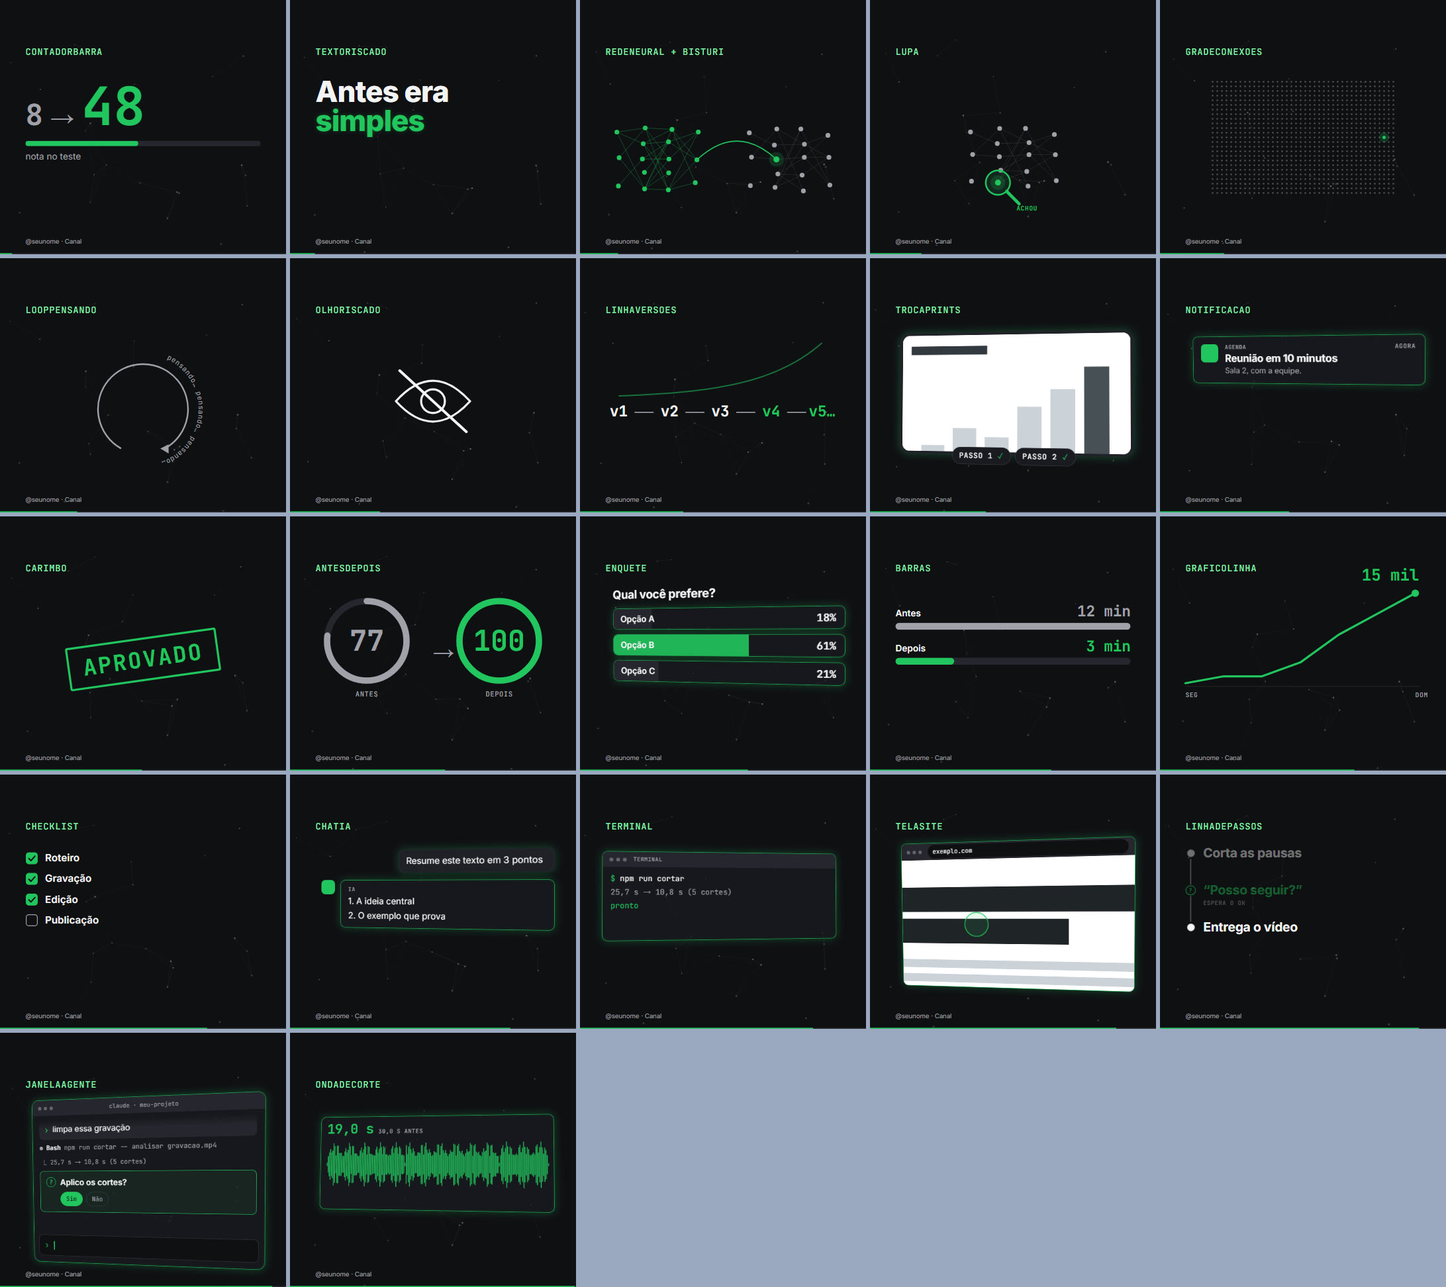
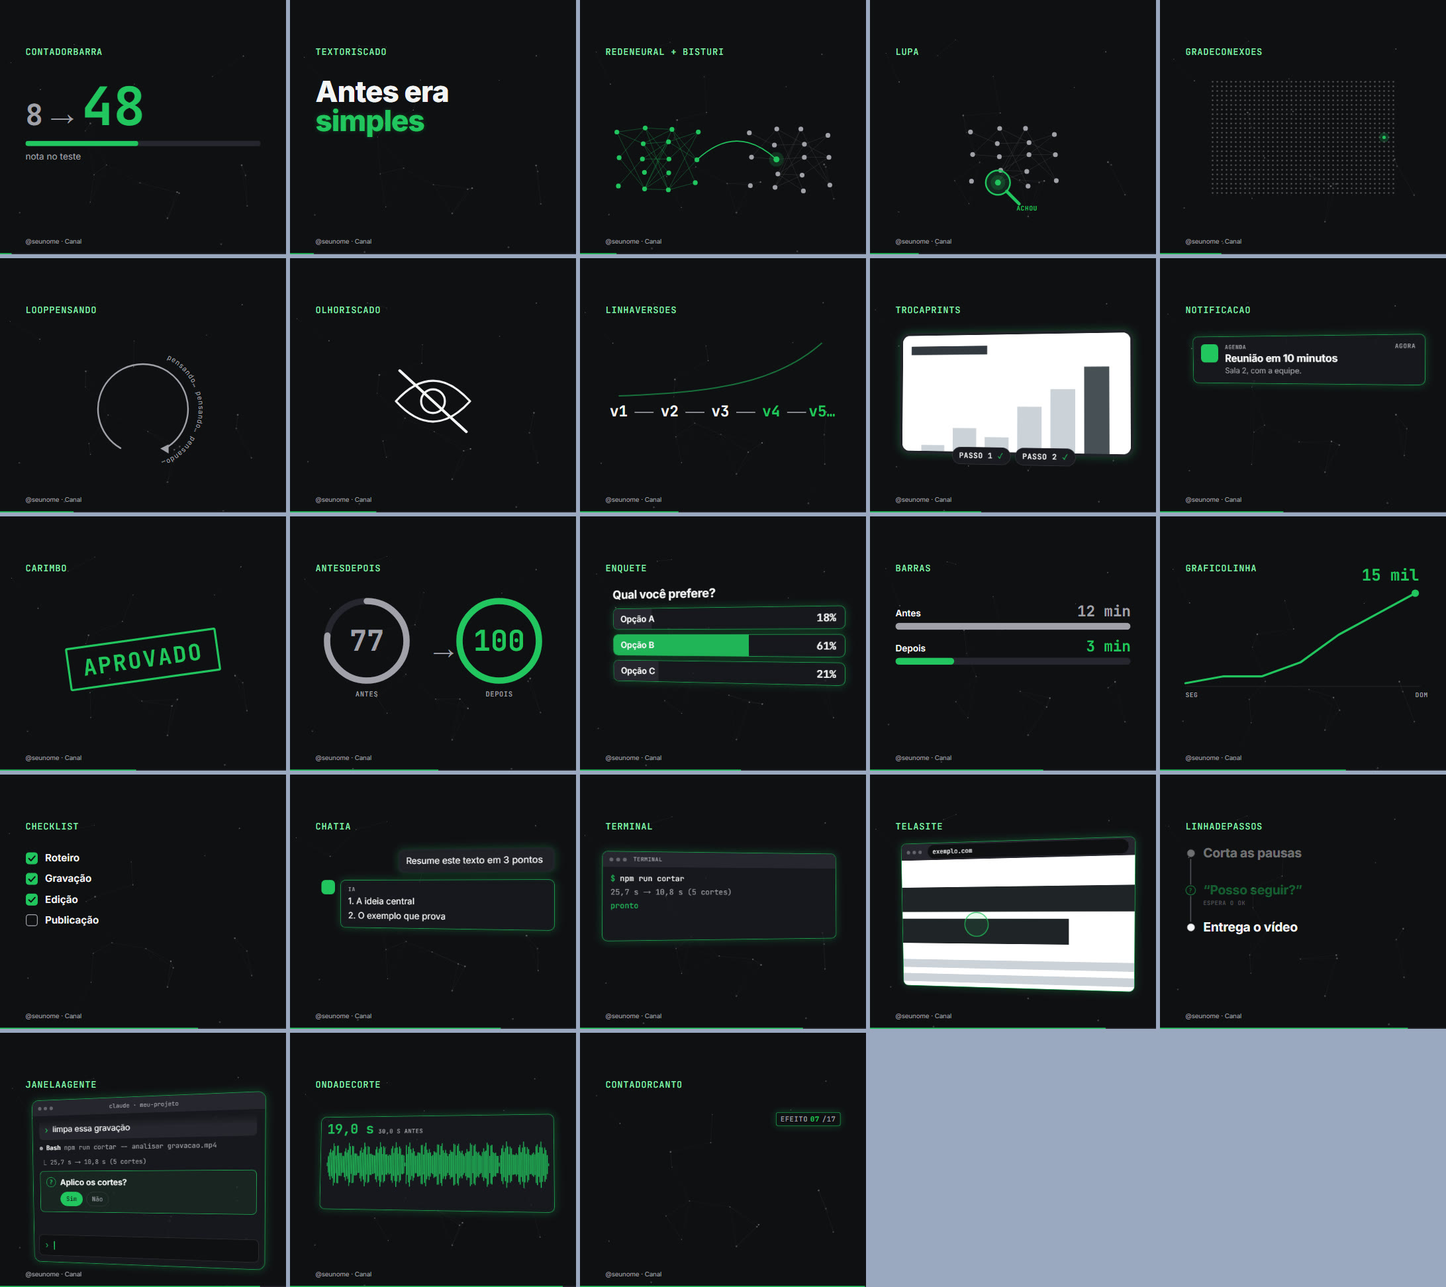
Legenda fluida, contador de canto e órbita que não cruza o rosto
- LegendaFluida: legenda de 1 a 3 palavras por vez, cada uma no instante
  em que é falada, sem tarja, palavra-chave na cor do tema e véu escuro
  atrás. VideoLegendado ganha modelo "fluida" e centroLegenda; paginar
  ganha o modo "fluida". Guia na skill de legendas.
- ContadorCanto: contador "07/17" no canto de cima, para sequências.
- OrbitaDeCartoes: regra para não cruzar o rosto (frente abaixo da boca,
  fundo atrás da cabeça), no catálogo, na skill rápida e no mostruário.
- RecortePapel: letrasEm e letrasPasso opcionais.
- Imagens do docs/ refeitas com a marca neutra.

Changed region(s): [[0.3736, 0.8025, 0.6227, 1.0]]

diff --git a/src/pecas/LegendaFluida.tsx b/src/pecas/LegendaFluida.tsx
@@ -1,0 +1,88 @@
+import { interpolate, useCurrentFrame, useVideoConfig } from "remotion";
+import { z } from "zod";
+import { comAlfa, destaqueEstilo } from "../animacoes/estilo";
+import { ds, fonteDisplay, zonasReels } from "../animacoes/tema";
+import { ease } from "./util";
+import type { PosicaoLegenda } from "./LegendaQueimada";
+
+// Legenda FLUIDA: de 1 a 3 palavras por vez, em letra de título grande, sem tarja. Cada palavra entra no instante
+// em que é falada (sobe um pouco e aparece), e o bloco troca quando começa o próximo. A *palavra* entre asteriscos
+// sai na cor do tema (no estilo palco, também em itálico). É a alternativa à LegendaQueimada (frases inteiras).
+// Os blocos vêm de `npm run paginar -- legendas\<nome>.json "<vídeo>" fluida` (tempos em segundos).
+export const blocoFluidoSchema = z.object({
+  de: z.number(),
+  ate: z.number(),
+  palavras: z.array(z.object({ texto: z.string(), de: z.number() })),
+});
+export type BlocoFluido = z.infer<typeof blocoFluidoSchema>;
+
+const ALTURA = zonasReels.legenda.y1 - zonasReels.legenda.y0;
+const caixas: Record<PosicaoLegenda, { left: number; width: number; top: number }> = {
+  faixa: { left: zonasReels.lateral, width: 1080 - 2 * zonasReels.lateral, top: zonasReels.legenda.y0 },
+  "terco-superior": { left: zonasReels.lateral, width: 1080 - 2 * zonasReels.lateral, top: 260 },
+  base: { left: zonasReels.lateral, width: zonasReels.botoes.x - zonasReels.lateral, top: 1920 - zonasReels.base - 40 - ALTURA },
+};
+
+export const LegendaFluida: React.FC<{
+  blocos: BlocoFluido[];
+  acento: string;
+  posicao?: PosicaoLegenda;
+  tamanho?: number;
+  veu?: boolean; // um véu escuro e difuso atrás das palavras, para ler sobre fundo claro (não é sombra no texto)
+  centroY?: number; // y do meio da legenda, se não for a `posicao` (rosto em tela cheia: logo abaixo do queixo)
+}> = ({ blocos, acento, posicao = "faixa", tamanho = 70, veu = true, centroY }) => {
+  const frame = useCurrentFrame();
+  const { fps } = useVideoConfig();
+  const t = frame / fps;
+  const bloco = blocos.find((b) => t >= b.de && t < b.ate);
+  if (!bloco) return null;
+  const caixa = centroY ? { ...caixas.faixa, top: centroY - ALTURA / 2 } : caixas[posicao];
+  return (
+    <div style={{ position: "absolute", ...caixa, height: ALTURA, display: "flex", alignItems: "center", justifyContent: "center" }}>
+      {veu ? (
+        <div
+          style={{
+            position: "absolute",
+            left: "50%",
+            top: "50%",
+            width: Math.min(caixa.width, 260 + bloco.palavras.reduce((n, p) => n + p.texto.length, 0) * tamanho * 0.36),
+            height: tamanho * 1.9,
+            translate: "-50% -50%",
+            borderRadius: 999,
+            backgroundColor: comAlfa(ds.bg000, 0.42),
+            filter: "blur(38px)",
+          }}
+        />
+      ) : null}
+      <div style={{ position: "relative", display: "flex", flexWrap: "wrap", justifyContent: "center", columnGap: tamanho * 0.28, maxWidth: "100%" }}>
+        {bloco.palavras.map((p, i) => {
+          const desde = (t - p.de) * fps; // quadros desde que a palavra foi falada
+          if (desde < 0) return null;
+          const v = interpolate(desde, [0, 5], [0, 1], ease);
+          const destaque = p.texto.startsWith("*") && p.texto.endsWith("*") && p.texto.length > 2;
+          const texto = destaque ? p.texto.slice(1, -1) : p.texto;
+          return (
+            <span
+              key={i}
+              style={{
+                display: "inline-block",
+                fontFamily: fonteDisplay,
+                fontWeight: 800,
+                fontSize: tamanho,
+                lineHeight: 1.05,
+                letterSpacing: "-0.01em",
+                color: ds.ink,
+                opacity: v,
+                translate: `0px ${interpolate(v, [0, 1], [tamanho * 0.22, 0]).toFixed(2)}px`,
+                scale: interpolate(v, [0, 1], [0.92, 1]),
+                ...(destaque ? destaqueEstilo(acento) : {}),
+              }}
+            >
+              {texto}
+            </span>
+          );
+        })}
+      </div>
+    </div>
+  );
+};

diff --git a/src/videos/VideoLegendado.tsx b/src/videos/VideoLegendado.tsx
@@ -3,6 +3,7 @@ import { AbsoluteFill, Sequence, staticFile } from "remotion";
 import { z } from "zod";
 import { GuiaZonaSegura } from "../animacoes/Base";
 import { ds, PILAR_PADRAO, pilares, pilarSchema, tipo } from "../animacoes/tema";
+import { blocoFluidoSchema, LegendaFluida } from "../pecas/LegendaFluida";
 import { LegendaQueimada, paginaLegendaSchema, posicaoLegendaSchema } from "../pecas/LegendaQueimada";
 
 /*
@@ -19,11 +20,16 @@ export const videoLegendadoSchema = z.object({
   enquadramento: z.string(), // posição do vídeo no quadro (CSS object-position), ex.: "50% 50%"
   posicao: posicaoLegendaSchema,
   mostrarGuia: z.boolean(),
+  // "frases": frases inteiras numa tarja (LegendaQueimada, o padrão); "fluida": 1 a 3 palavras por vez, cada uma no seu tempo (LegendaFluida)
+  modelo: z.enum(["frases", "fluida"]),
+  // só na fluida: y do meio da legenda (0 = segue a `posicao`). Rosto em tela cheia: logo abaixo do queixo.
+  centroLegenda: z.number(),
   paginas: z.array(paginaLegendaSchema),
+  blocos: z.array(blocoFluidoSchema),
 });
 type Props = z.infer<typeof videoLegendadoSchema>;
 
-export const VideoLegendado: React.FC<Props> = ({ pilar, video, enquadramento, posicao, mostrarGuia, paginas }) => {
+export const VideoLegendado: React.FC<Props> = ({ pilar, video, enquadramento, posicao, mostrarGuia, modelo, centroLegenda, paginas, blocos }) => {
   const { acento } = pilares[pilar];
   return (
     <AbsoluteFill style={{ backgroundColor: ds.bg000 }}>
@@ -35,7 +41,11 @@ export const VideoLegendado: React.FC<Props> = ({ pilar, video, enquadramento, p
             vídeo: rosto, tela cheia
           </AbsoluteFill>
         )}
-        <LegendaQueimada paginas={paginas} acento={acento} posicao={posicao} />
+        {modelo === "fluida" ? (
+          <LegendaFluida blocos={blocos} acento={acento} posicao={posicao} centroY={centroLegenda || undefined} />
+        ) : (
+          <LegendaQueimada paginas={paginas} acento={acento} posicao={posicao} />
+        )}
       </Sequence>
       {mostrarGuia ? <GuiaZonaSegura /> : null}
     </AbsoluteFill>
@@ -49,10 +59,13 @@ export const videoLegendadoPadrao: Props = {
   enquadramento: "50% 50%",
   posicao: "terco-superior",
   mostrarGuia: false,
+  modelo: "frases",
+  centroLegenda: 0,
   paginas: [
     { de: 0.2, ate: 2.6, texto: "Esta é a *legenda* queimada no vídeo" },
     { de: 2.6, ate: 5.6, texto: "Frase inteira, com uma *palavra-chave* em destaque na cor do tema" },
   ],
+  blocos: [],
 };
 
 export const duracaoVideoLegendado = (p: Props, fps: number) => Math.max(1, Math.round(p.duracaoSeg * fps));

diff --git a/src/pecas/ContadorCanto.tsx b/src/pecas/ContadorCanto.tsx
@@ -1,0 +1,47 @@
+import { interpolate, useCurrentFrame } from "remotion";
+import { cartao, comAlfa } from "../animacoes/estilo";
+import { ds, tipo } from "../animacoes/tema";
+import { ease } from "./util";
+
+// Contador no canto de cima à direita ("07/17"): marca em que item de uma sequência o vídeo está.
+// Bom para mostruário, "N dicas", "N passos". Vai dentro da cena do item e entra com ela.
+//   atual, total: os números (o atual ganha zero à esquerda, no tamanho do total);  rotulo: palavra opcional antes
+export const ContadorCanto: React.FC<{ atual: number; total: number; acento: string; rotulo?: string; top?: number; inicio?: number }> = ({
+  atual,
+  total,
+  acento,
+  rotulo,
+  top = 176,
+  inicio = 0,
+}) => {
+  const frame = useCurrentFrame();
+  const v = interpolate(frame, [inicio, inicio + 8], [0, 1], ease);
+  const casas = String(total).length;
+  return (
+    <div
+      style={{
+        position: "absolute",
+        right: ds.space[4],
+        top,
+        display: "flex",
+        alignItems: "baseline",
+        gap: 10,
+        padding: "8px 16px",
+        borderRadius: ds.radius.sm,
+        backgroundColor: comAlfa(ds.bg000, 0.72),
+        border: `2px solid ${ds.line}`,
+        ...tipo.chapter,
+        fontSize: 26,
+        color: ds.inkMuted,
+        fontVariantNumeric: "tabular-nums",
+        opacity: v,
+        translate: `0px ${interpolate(v, [0, 1], [-8, 0])}px`,
+        ...cartao(acento, ds.bg000),
+      }}
+    >
+      {rotulo ? <span>{rotulo}</span> : null}
+      <span style={{ color: acento, fontWeight: 700 }}>{String(atual).padStart(casas, "0")}</span>
+      <span>/{total}</span>
+    </div>
+  );
+};

diff --git a/src/efeitos/RecortePapel.tsx b/src/efeitos/RecortePapel.tsx
@@ -7,6 +7,8 @@ import { ease } from "../pecas/util";
 // com uma palavra em letras recortadas embaixo. Anda "aos trancos" (2 quadros por passo), como stop-motion.
 // PRECISA DO RECORTE: `pessoa` = <PessoaRecortada>.
 //   em: quadro em que o papel rasga e a pessoa cola;  letras: a palavra das letras recortadas (curta)
+//   letrasEm, letrasPasso: quadros depois de `em` em que a primeira letra chega e entre uma letra e outra
+//   (cena curta: 4 e 2, para a palavra inteira chegar a tempo)
 export const RecortePapel: React.FC<{
   pessoa: React.ReactNode;
   acento: string;
@@ -14,7 +16,9 @@ export const RecortePapel: React.FC<{
   letras?: string;
   giro?: number;
   letrasTop?: number;
-}> = ({ pessoa, acento, em, letras, giro = -2, letrasTop = 1190 }) => {
+  letrasEm?: number;
+  letrasPasso?: number;
+}> = ({ pessoa, acento, em, letras, giro = -2, letrasTop = 1190, letrasEm = 14, letrasPasso = 4 }) => {
   const frameReal = useCurrentFrame();
   const frame = em + Math.floor((frameReal - em) / 2) * 2; // stop-motion
   const rasga = interpolate(frame, [em, em + 10], [0, 1], ease);
@@ -52,7 +56,7 @@ export const RecortePapel: React.FC<{
       {letras ? (
         <div style={{ position: "absolute", left: 0, right: 0, top: letrasTop, display: "flex", justifyContent: "center", gap: 10 }}>
           {letras.split("").map((l, i) => {
-            const chega = interpolate(frame, [em + 14 + i * 4, em + 20 + i * 4], [0, 1], ease);
+            const chega = interpolate(frame, [em + letrasEm + i * letrasPasso, em + letrasEm + 6 + i * letrasPasso], [0, 1], ease);
             const tipoDaCaixa = i % 3;
             return (
               <div

diff --git a/src/MostruarioEfeitos.tsx b/src/MostruarioEfeitos.tsx
@@ -84,7 +84,8 @@ const exemplos: Record<string, (c: Cena) => React.ReactNode> = {
     </>
   ),
   OrbitaDeCartoes: ({ acento, g, p }) => {
-    const orbita = { acento, cartoes: [{ texto: "corte" }, { imagem: "exemplo/grafico.png" }, { texto: "legenda" }, { texto: "zoom" }, { imagem: "exemplo/pagina.png" }, { texto: "capa" }], cy: 740, ry: 170, largura: 160, periodo: 6 };
+    const orbita = { acento, cartoes: [{ texto: "corte" }, { imagem: "exemplo/grafico.png" }, { texto: "legenda" }, { texto: "zoom" }, { imagem: "exemplo/pagina.png" }, { texto: "capa" }], cy: 860, ry: 220, largura: 220, proporcao: 0.42, tamanhoTexto: 40, periodo: 6 };
+    // inclinada: na frente passa abaixo da boca, atrás passa atrás do alto da cabeça (nada cruza o rosto)
     // com a pessoa recortada, os cartões de trás passam ATRÁS da cabeça; sem ela, ficam apagados por cima
     return p ? (
       <>

diff --git a/src/Mostruario.tsx b/src/Mostruario.tsx
@@ -7,6 +7,7 @@ import { Carimbo } from "./pecas/Carimbo";
 import { ChatIA } from "./pecas/ChatIA";
 import { Checklist } from "./pecas/Checklist";
 import { ContadorBarra } from "./pecas/ContadorBarra";
+import { ContadorCanto } from "./pecas/ContadorCanto";
 import { Enquete } from "./pecas/Enquete";
 import { GradeConexoes } from "./pecas/GradeConexoes";
 import { GraficoLinha } from "./pecas/GraficoLinha";
@@ -132,6 +133,7 @@ const exemplos: Record<string, (acento: string) => React.ReactNode> = {
       inicio={2}
     />
   ),
+  ContadorCanto: (acento) => <ContadorCanto atual={7} total={17} rotulo="efeito" acento={acento} top={300} inicio={4} />,
 };
 
 // onda de exemplo (ilustração, não é gravação de ninguém): fala com pausas

diff --git a/.claude/skills/fabrica-videos-legendas/SKILL.md b/.claude/skills/fabrica-videos-legendas/SKILL.md
@@ -5,7 +5,7 @@ description: Legenda queimada no vídeo no padrão da marca, em frases inteiras 
 
 # /fabrica-videos-legendas — legenda queimada com palavra em destaque
 
-Skill da **Fábrica de Vídeos Agêntica**. Queima a legenda no vídeo, no padrão da marca: frases inteiras, no máximo 2 linhas, na fonte de texto da marca, sobre tarja escura, **uma palavra-chave por frase na cor do pilar**. Sem animação palavra a palavra.
+Skill da **Fábrica de Vídeos Agêntica**. Queima a legenda no vídeo, no padrão da marca: frases inteiras, no máximo 2 linhas, na fonte de texto da marca, sobre tarja escura, **uma palavra-chave por frase na cor do pilar**. Sem animação palavra a palavra. Se a pessoa pedir legenda que flui palavra por palavra, use o **modelo fluido** (seção abaixo).
 
 Você é o **editor de vídeo**. Comandos no terminal, na raiz do projeto. `TRABALHO` = a pasta `trabalho`.
 
@@ -33,6 +33,27 @@ Não precisa de código por vídeo.
 
 `npm run paginar` não sobrescreve um arquivo que já existe (você pode ter marcado as palavras-chave). Para gerar de novo, acrescente `refazer` no fim do comando.
 
+Outro jeito de legendar, a escolher quando ele pedir "legenda fluida" ou "palavra por palavra":
+- **Como fica:** de 1 a 3 palavras por vez, em letra de título grande (70 px), sem tarja. Cada palavra entra no instante em que é falada e o bloco troca no seguinte. As palavras-chave saem na cor do tema (no estilo palco, também em itálico).
+- **Fundo:** um véu escuro e difuso atrás das palavras ajuda a ler sobre fundo claro. Não é sombra no texto.
+- **Peça:** `LegendaFluida`. Composição: a mesma `VideoLegendado`, com `modelo: "fluida"`.
+
+Passos: os mesmos do caso 1, com estas diferenças.
+1. **Paginar:** `npm run paginar -- legendas\<nome>.json "<vídeo>" <pilar> fluida` gera `legendas\<nome>.fluida.json`.
+   - Blocos de até 3 palavras e 20 letras, quebrando em pausa de 0,35 s e em pontuação.
+   - Sem pontuação na tela.
+   - A palavra que abre frase sai em minúscula.
+   - Palavra pendurada ("de", "o", "no") vai para o bloco seguinte.
+2. **Revisar:**
+   - nomes que o Whisper errou; a primeira palavra de frase que é nome próprio volta a ter maiúscula;
+   - "chat de apt" vira um bloco só, "ChatGPT", com o tempo da primeira palavra;
+3. **Posição:**
+   - tela dividida: `posicao: "faixa"` e `centroLegenda: 0`.
+4. **Conferir:** quadros com as zonas: `npm run quadros -- VideoLegendado 2s,10s,20s 0.3 legendas\<nome>.fluida.json guia`.
+5. **Renderizar:** `npx remotion render VideoLegendado "<saída>.mp4" --props=legendas\<nome>.fluida.json`.
+
+Num reel com animações, use a peça direto, fora do `<TelaDividida>`: `<LegendaFluida blocos={fluida.blocos} acento={acento} posicao="faixa" />`.
+
 ## Caso 2: reel com animações (tela dividida)
 A peça é a mesma, dentro da composição do vídeo:
 ```tsx
@@ -48,8 +69,9 @@ Gere o `.legenda.json` pelos passos 2 a 4 acima. A peça vai **fora** do `<TelaD
 - Uma palavra-chave por frase, na cor do pilar. Nunca duas cores.
 - Tarja na cor de fundo da marca com cantos de 8 px. Nada de contorno, sombra ou palavra pulando.
 - O vídeo precisa se entender sem som: a legenda carrega a mensagem inteira.
+- **Exceção:** o modelo fluido (acima) mostra palavra por palavra, sem tarja. Ele só entra quando a pessoa pede. A entrada de cada palavra é curta (5 quadros, subida pequena) e nunca pula.
 
 ## Onde está o código
-- Peça: `src\pecas\LegendaQueimada.tsx`.
+- Peça: `src\pecas\LegendaQueimada.tsx` (frases) e `src\pecas\LegendaFluida.tsx` (fluida).
 - Composição pronta: `src\videos\VideoLegendado.tsx` (Id `VideoLegendado`).
 - Paginador: `scripts\paginar.mjs`.

diff --git a/.claude/skills/fabrica-videos-peca/pecas.md b/.claude/skills/fabrica-videos-peca/pecas.md
@@ -21,6 +21,7 @@ Para ver em movimento: composição `Mostruario` no Studio (3 s por peça). Para
 | "pedi para a IA", "colei o prompt" | `ChatIA` | Pedido sendo digitado e a resposta em linhas |
 | "rodei o comando", "o script fez" | `Terminal` | Janela de terminal com linhas digitadas |
 | "pedi para a IA e ela fez", "a IA rodou e perguntou" (uma sessão inteira) | `JanelaAgente` | Sessão com o agente: pedido digitado, ferramentas rodando, saídas, pergunta com botões, menu do "/"; rola sozinha. Só com texto real |
+| uma sequência numerada ("17 efeitos", "5 dicas") | `ContadorCanto` | Contador discreto no canto de cima à direita, `07/17`, que muda a cada item; serve também em tela cheia, sobre a gravação |
 | "cortou as pausas", "de 2 minutos para 30 segundos" | `OndaDeCorte` | Forma de onda real da gravação: os cortes apagam e somem, o que fica se junta e a duração conta |
 | o nome de um site, app ou produto | `TelaSite` | Print numa moldura de navegador, com rolagem, zoom e clique |
 | vários prints em sequência | `TrocaPrints` | Prints trocando em corte seco, com chips por cima |
@@ -31,6 +32,7 @@ Para ver em movimento: composição `Mostruario` no Studio (3 s por peça). Para
 | "cada versão melhora a próxima" | `LinhaVersoes` | v1 → v2 → v3 acelerando, com curva |
 | o título de uma cena | `TituloCena` (em `util.tsx`) | Título com a palavra-chave na cor do pilar |
 | legenda queimada | `LegendaQueimada` | Ver a skill `fabrica-videos-legendas` |
+| legenda fluida, palavra por palavra | `LegendaFluida` | 1 a 3 palavras por vez, sem tarja, cada uma no seu tempo; ver a skill `fabrica-videos-legendas`, "Modelo fluido" |
 
 ## Props em comum
 - `acento`: a cor do pilar (`pilares[pilar].acento`).
@@ -55,7 +57,7 @@ A base é a `<Gravacao video="..." inicio={segundo} />`. Sem `video`, ela mostra
 | "presta atenção nisso" | `ZoomCamera` | Zoom em degraus com o visor da câmera: cantos do quadro, REC e régua do zoom |
 | "pedi para a IA e ela fez" | `InterfaceEmVolta` | Painéis flutuando em volta: pedido digitado, progresso, prévia, linha do tempo |
 | "X fica entre A e B", os dois lados de uma discussão | `InterfaceEmVolta` (painéis `texto` com `rotulo`, `tamanho` e `forte`) | Cartões de nome em volta da cabeça: um em cima, um de cada lado, cada um entrando na palavra |
-| "fiz tudo isso", várias peças de uma vez | `OrbitaDeCartoes` | Cartões (palavras ou prints) girando em volta da cabeça, em 3D. Palavra comprida: `proporcao={0.5}` (etiqueta deitada) e `tamanhoTexto` |
+| "fiz tudo isso", várias peças de uma vez | `OrbitaDeCartoes` | Cartões (palavras ou prints) girando em volta da cabeça, em 3D. Palavra comprida: `proporcao={0.5}` (etiqueta deitada) e `tamanhoTexto`. **Órbita inclinada, sem cruzar o rosto:** a frente passa abaixo da boca e o fundo passa atrás do alto da cabeça (centro da frente ≈ boca + 140 px, centro de trás ≈ topo da cabeça + 40 px; `cy` é a média dos dois e `ry` a metade da distância; etiquetas deitadas, `proporcao` ~0,42) |
 | o nome de uma coisa que aparece na cena | `EtiquetaColada` | Adesivo na cor do tema grudado no objeto; segue uma `trilha` marcada à mão, se o objeto se mexer |
 | "antes era assim, agora…" (cru → tratado) | `VarreduraAntesDepois` | Um fio de luz atravessa e troca o `antes` pelo `depois`, com os rótulos |
 | "foi assim que eu fiz este vídeo" | `RecuoEditor` | A câmera recua e o vídeo vira uma janela do editor: checklist, efeitos, linha do tempo com a onda |

diff --git a/.claude/skills/fabrica-videos-rapido/SKILL.md b/.claude/skills/fabrica-videos-rapido/SKILL.md
@@ -67,6 +67,7 @@ A pessoa fica em tela cheia o tempo todo. Nos momentos-chave entra um efeito sob
   - O `CorteMergulho` recebe a mesma `<Gravacao>` em `de` e `para`, com `em` no quadro da **emenda do corte**. Para achar o segundo da emenda, some os trechos de `resultado.fica` do `.cortes.json`.
   - Texto na cor do tema some em cima de roupa clara: confira o contraste no quadro real.
   - Cartão que deve passar por trás da cabeça vai antes da `<PessoaRecortada>`; o que fica ao lado do rosto vai depois dela.
+  - Órbita: **nada cruza o rosto**. Incline a elipse para a frente passar abaixo da boca e o fundo atrás do alto da cabeça. Meça o y da boca e do topo da cabeça na gravação (ver `pecas.md` (na pasta da skill `fabrica-videos-peca`)).
   - Na troca para um fundo novo (`Vertigem`), deixe a `<Gravacao>` por baixo e faça o efeito entrar em 8 quadros: a pessoa não muda e o cenário não troca num estalo.
   - O `SaindoDoQuadro` esconde parte do cabeçalho do post atrás da cabeça. Se o nome e o botão Seguir importam (CTA), repita-os embaixo do post.
 

diff --git a/README.md b/README.md
@@ -13,7 +13,7 @@ Tudo roda no seu computador. As animações são feitas em código (Remotion) e 
 | "gravei isso, monta" | `/fabrica-videos-rapido` | Reel animado a partir da gravação, sem roteiro antes |
 | "quero um reel sobre X" | `/fabrica-videos-reels` | Reel com roteiro e storyboard aprovados antes de gravar |
 | "limpa essa gravação" | `/fabrica-videos-corte` | Vídeo sem silêncios, erros nem tomadas repetidas, com relatório |
-| "põe legenda" | `/fabrica-videos-legendas` | Legenda queimada, com a palavra-chave na cor da marca |
+| "põe legenda" | `/fabrica-videos-legendas` | Legenda queimada, com a palavra-chave na cor da marca: frases inteiras numa tarja, ou fluida, palavra por palavra |
 | "que animação dá para pôr aqui?" | `/fabrica-videos-peca` | Uma peça da biblioteca, ou uma nova no padrão da marca |
 | "mostra o site X" | `/fabrica-videos-print-site` | Print do site numa moldura de navegador, com rolagem e zoom |
 | "quero outro formato" | `/fabrica-videos-formatos` | Tela dividida, rosto com janela, tela com rosto, tutorial mudo |
